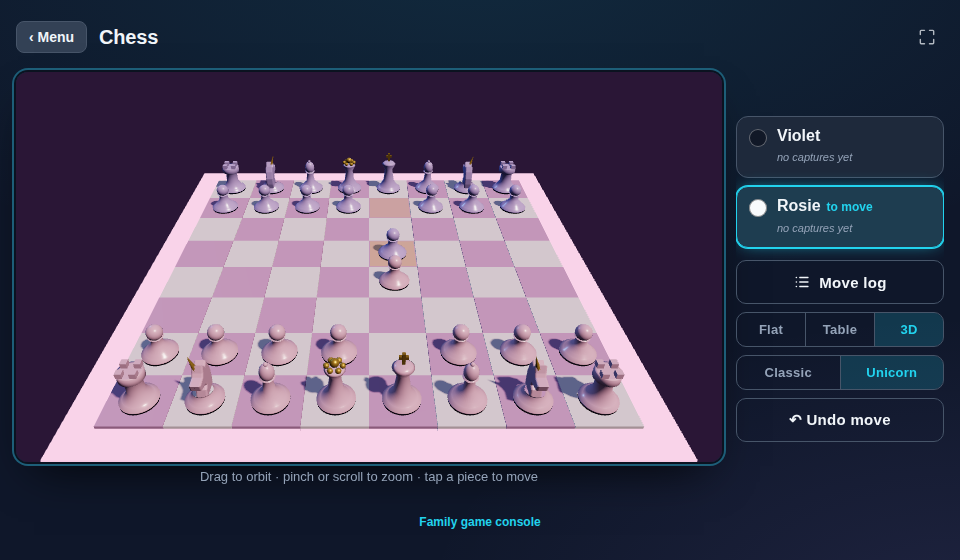
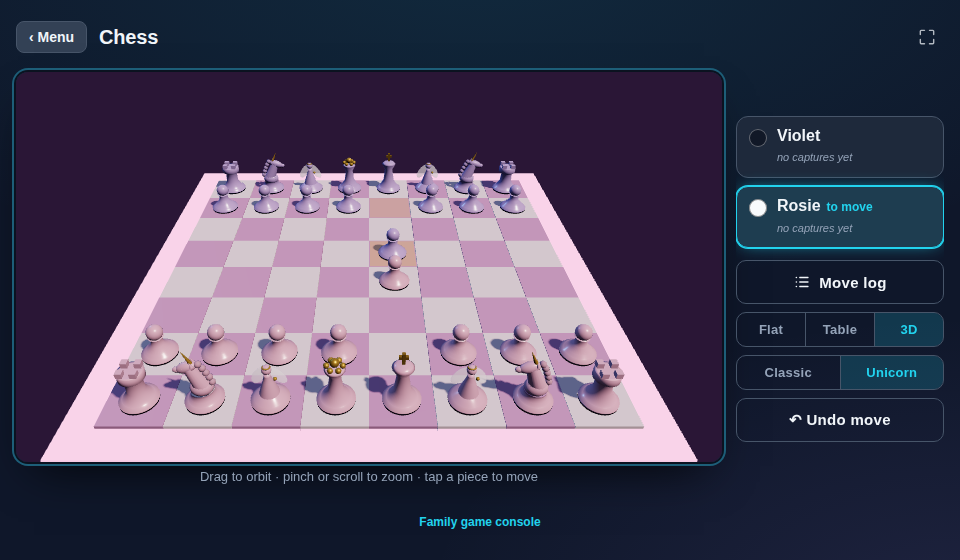
Unicorn theme: sculpted 3D unicorn knights and faerie bishops
Feedback from the girls — they wanted real unicorn SHAPES, not a horn
on the classic knight, and bishops as faeries.

- 3D knight is now a sculpted unicorn bust: arched neck leaning toward
  the enemy, elongated head and muzzle, pricked ears, a beaded mane in
  a deeper shade of the coat, and the golden horn following the head's
  tilt.
- 3D bishop is now a faerie: a slender A-line gown, a small head with a
  golden circlet, two translucent gossamer wings that glow softly and
  catch light on both sides, and a tiny golden wand-star.
- 2D bishop matches: a winged faerie with circlet and wand replaces the
  crystal. (The 2D knight was already a unicorn head.)
- Classic theme untouched — the new builders only run for the unicorn
  set's gold-accented pieces.

240 tests pass; typecheck + build clean; verified with a zoomed-in
headless-browser shot of the back rank.

Claude-Session: https://claude.ai/code/session_01Pet5917XAbMAsbQM47tWg6

diff --git a/src/games/chess/components/three/ChessScene.ts b/src/games/chess/components/three/ChessScene.ts
@@ -374,11 +374,16 @@ function buildPiece(type: PieceType, mat: THREE.Material, black: boolean, accent
       }
       break;
     }
-    case 'b':
+    case 'b': {
+      if (accent) {
+        buildFaerie(g, mat, accent);
+        break;
+      }
       g.add(lathe([...BASE, [0.10, 0.24], [0.075, 0.44], [0.12, 0.50], [0, 0.52]], mat));
       g.add(ball(0.115, 0.60, mat, 1.35));
       g.add(ball(0.035, 0.76, mat));
       break;
+    }
     case 'q': {
       g.add(lathe([...BASE, [0.12, 0.26], [0.085, 0.52], [0.16, 0.66], [0.13, 0.70], [0, 0.72]], mat));
       const crownMat = accent ?? mat;
@@ -402,6 +407,10 @@ function buildPiece(type: PieceType, mat: THREE.Material, black: boolean, accent
       break;
     }
     case 'n': {
+      if (accent) {
+        buildUnicorn(g, mat, accent, black);
+        break;
+      }
       g.add(lathe([...BASE, [0.155, 0.20], [0.17, 0.24]], mat));
       const s = new THREE.Shape();
       const P: [number, number][] = [[-0.14, 0], [0.15, 0], [0.12, 0.12], [0.05, 0.17], [0.07, 0.26], [0.30, 0.34], [0.32, 0.42],
@@ -415,18 +424,113 @@ function buildPiece(type: PieceType, mat: THREE.Material, black: boolean, accent
       head.scale.setScalar(0.92);
       head.rotation.y = black ? Math.PI / 2 : -Math.PI / 2;
       g.add(head);
-      if (accent) {
-        // The unicorn's golden horn, rising from the forehead and leaning the
-        // way the head faces.
-        const horn = new THREE.Mesh(new THREE.ConeGeometry(0.045, 0.3, 12), accent);
-        const lean = black ? 0.5 : -0.5;
-        horn.position.set(lean * 0.14, 0.78, 0);
-        horn.rotation.z = 0; horn.rotation.x = 0;
-        horn.rotation.set(0, 0, -lean * 0.55);
-        g.add(horn);
-      }
       break;
     }
   }
   return g;
+}
+
+/**
+ * The unicorn-theme knight: a sculpted unicorn bust — arched neck, elongated
+ * head with muzzle, pricked ears, a beaded mane down the back of the neck, and
+ * the golden horn. `dir` is +1/-1 so each side faces its enemy.
+ */
+function buildUnicorn(g: THREE.Group, mat: THREE.Material, accent: THREE.Material, black: boolean) {
+  const dir = black ? 1 : -1;
+  g.add(lathe([...BASE, [0.17, 0.2], [0.185, 0.26]], mat));
+
+  // Shoulders/chest sitting on the base.
+  const chest = ball(0.155, 0.3, mat, 0.9);
+  chest.scale.x = 1.15;
+  g.add(chest);
+
+  // Arched neck, leaning toward the enemy.
+  const neck = new THREE.Mesh(new THREE.CylinderGeometry(0.085, 0.14, 0.42, 18), mat);
+  neck.position.set(dir * 0.05, 0.5, 0);
+  neck.rotation.z = -dir * 0.38;
+  g.add(neck);
+
+  // Head — an elongated sphere with a shorter muzzle sphere at the tip.
+  const head = ball(0.105, 0.7, mat);
+  head.scale.set(1.55, 0.82, 0.78);
+  head.position.x = dir * 0.16;
+  head.rotation.z = -dir * 0.32;
+  g.add(head);
+  const muzzle = ball(0.062, 0.655, mat);
+  muzzle.scale.set(1.15, 0.8, 0.72);
+  muzzle.position.x = dir * 0.3;
+  g.add(muzzle);
+
+  // Pricked ears.
+  for (const side of [-1, 1]) {
+    const ear = new THREE.Mesh(new THREE.ConeGeometry(0.028, 0.09, 10), mat);
+    ear.position.set(dir * 0.07, 0.795, side * 0.05);
+    ear.rotation.z = -dir * 0.25;
+    ear.castShadow = true;
+    g.add(ear);
+  }
+
+  // The golden horn, from the forehead, following the head's tilt.
+  const horn = new THREE.Mesh(new THREE.ConeGeometry(0.032, 0.27, 12), accent);
+  horn.position.set(dir * 0.135, 0.9, 0);
+  horn.rotation.z = -dir * 0.42;
+  horn.castShadow = true;
+  g.add(horn);
+
+  // A beaded mane down the back of the neck, in a deeper shade of the coat.
+  const bodyColor = (mat as THREE.MeshStandardMaterial).color;
+  const maneMat = new THREE.MeshStandardMaterial({
+    color: bodyColor.clone().multiplyScalar(0.72),
+    roughness: 0.5,
+  });
+  const maneSpots: [number, number][] = [[-0.02, 0.76], [-0.07, 0.68], [-0.11, 0.59], [-0.145, 0.5], [-0.17, 0.4]];
+  for (const [mx, my] of maneSpots) {
+    const tuft = ball(0.052, my, maneMat);
+    tuft.position.x = dir * mx;
+    g.add(tuft);
+  }
+}
+
+/**
+ * The unicorn-theme bishop: a faerie — slender gown, a small head with a gold
+ * circlet, and two gossamer wings that light passes through.
+ */
+function buildFaerie(g: THREE.Group, mat: THREE.Material, accent: THREE.Material) {
+  g.add(lathe([...BASE, [0.11, 0.2]], mat));
+
+  // The gown — a gentle A-line from base to shoulders.
+  g.add(lathe([[0.155, 0.18], [0.12, 0.3], [0.08, 0.42], [0.05, 0.52], [0.055, 0.56], [0, 0.58]], mat));
+
+  // Head with a golden circlet.
+  g.add(ball(0.075, 0.65, mat));
+  const circlet = new THREE.Mesh(new THREE.TorusGeometry(0.055, 0.012, 8, 20), accent);
+  circlet.position.y = 0.695;
+  circlet.rotation.x = Math.PI / 2 - 0.25;
+  circlet.castShadow = true;
+  g.add(circlet);
+
+  // Gossamer wings — translucent, softly glowing, catching light both sides.
+  const wingMat = new THREE.MeshStandardMaterial({
+    color: '#ffffff',
+    transparent: true,
+    opacity: 0.5,
+    roughness: 0.15,
+    side: THREE.DoubleSide,
+    emissive: '#ffd9f2',
+    emissiveIntensity: 0.3,
+    depthWrite: false,
+  });
+  for (const side of [-1, 1]) {
+    const wing = new THREE.Mesh(new THREE.SphereGeometry(0.16, 18, 14), wingMat);
+    wing.scale.set(0.55, 1.35, 0.12);
+    wing.position.set(side * 0.14, 0.47, -0.06);
+    wing.rotation.z = side * 0.55;
+    wing.rotation.y = side * 0.25;
+    g.add(wing);
+  }
+
+  // A tiny golden wand-star held at the side.
+  const star = ball(0.028, 0.46, accent);
+  star.position.x = 0.11;
+  g.add(star);
 }

diff --git a/src/games/chess/components/chessPieces.tsx b/src/games/chess/components/chessPieces.tsx
@@ -91,9 +91,14 @@ const UNICORN_PIECES: Record<PieceType, (c: PieceColors) => JSX.Element> = {
   ),
   b: (c) => (
     <>
-      <path d="M22.5 7 L28 15 L25 32 H20 L17 15 Z" />
-      <path d="M17 15 H28 M22.5 7 V32 M19.5 22 L25.5 22" stroke={c.stroke} strokeWidth="1.2" fill="none" />
-      <path d="M30 10 l1 3 l3 1 l-3 1 l-1 3 l-1 -3 l-3 -1 l3 -1 Z" fill={c.accent} stroke="none" />
+      {/* A faerie: gossamer wings, a little gown, a golden circlet and wand. */}
+      <path d="M18 15 C8.5 9 6 22 17.5 25 Z" fill={c.accent2} opacity="0.85" />
+      <path d="M27 15 C36.5 9 39 22 27.5 25 Z" fill={c.accent2} opacity="0.85" />
+      <circle cx="22.5" cy="11.5" r="3.4" />
+      <path d="M19.2 9.4 A4.4 4.4 0 0 1 25.8 9.4" stroke={c.accent} strokeWidth="1.6" fill="none" />
+      <path d="M22.5 15 L27.5 31 H17.5 Z" />
+      <path d="M27 22 L31.5 17.5" stroke={c.stroke} strokeWidth="1.2" fill="none" />
+      <path d="M31.5 14.6 l.9 2 l2 .9 l-2 .9 l-.9 2 l-.9 -2 l-2 -.9 l2 -.9 Z" fill={c.accent} stroke="none" />
       <path d="M15 34 H30 L32 40 H13 Z" />
     </>
   ),
